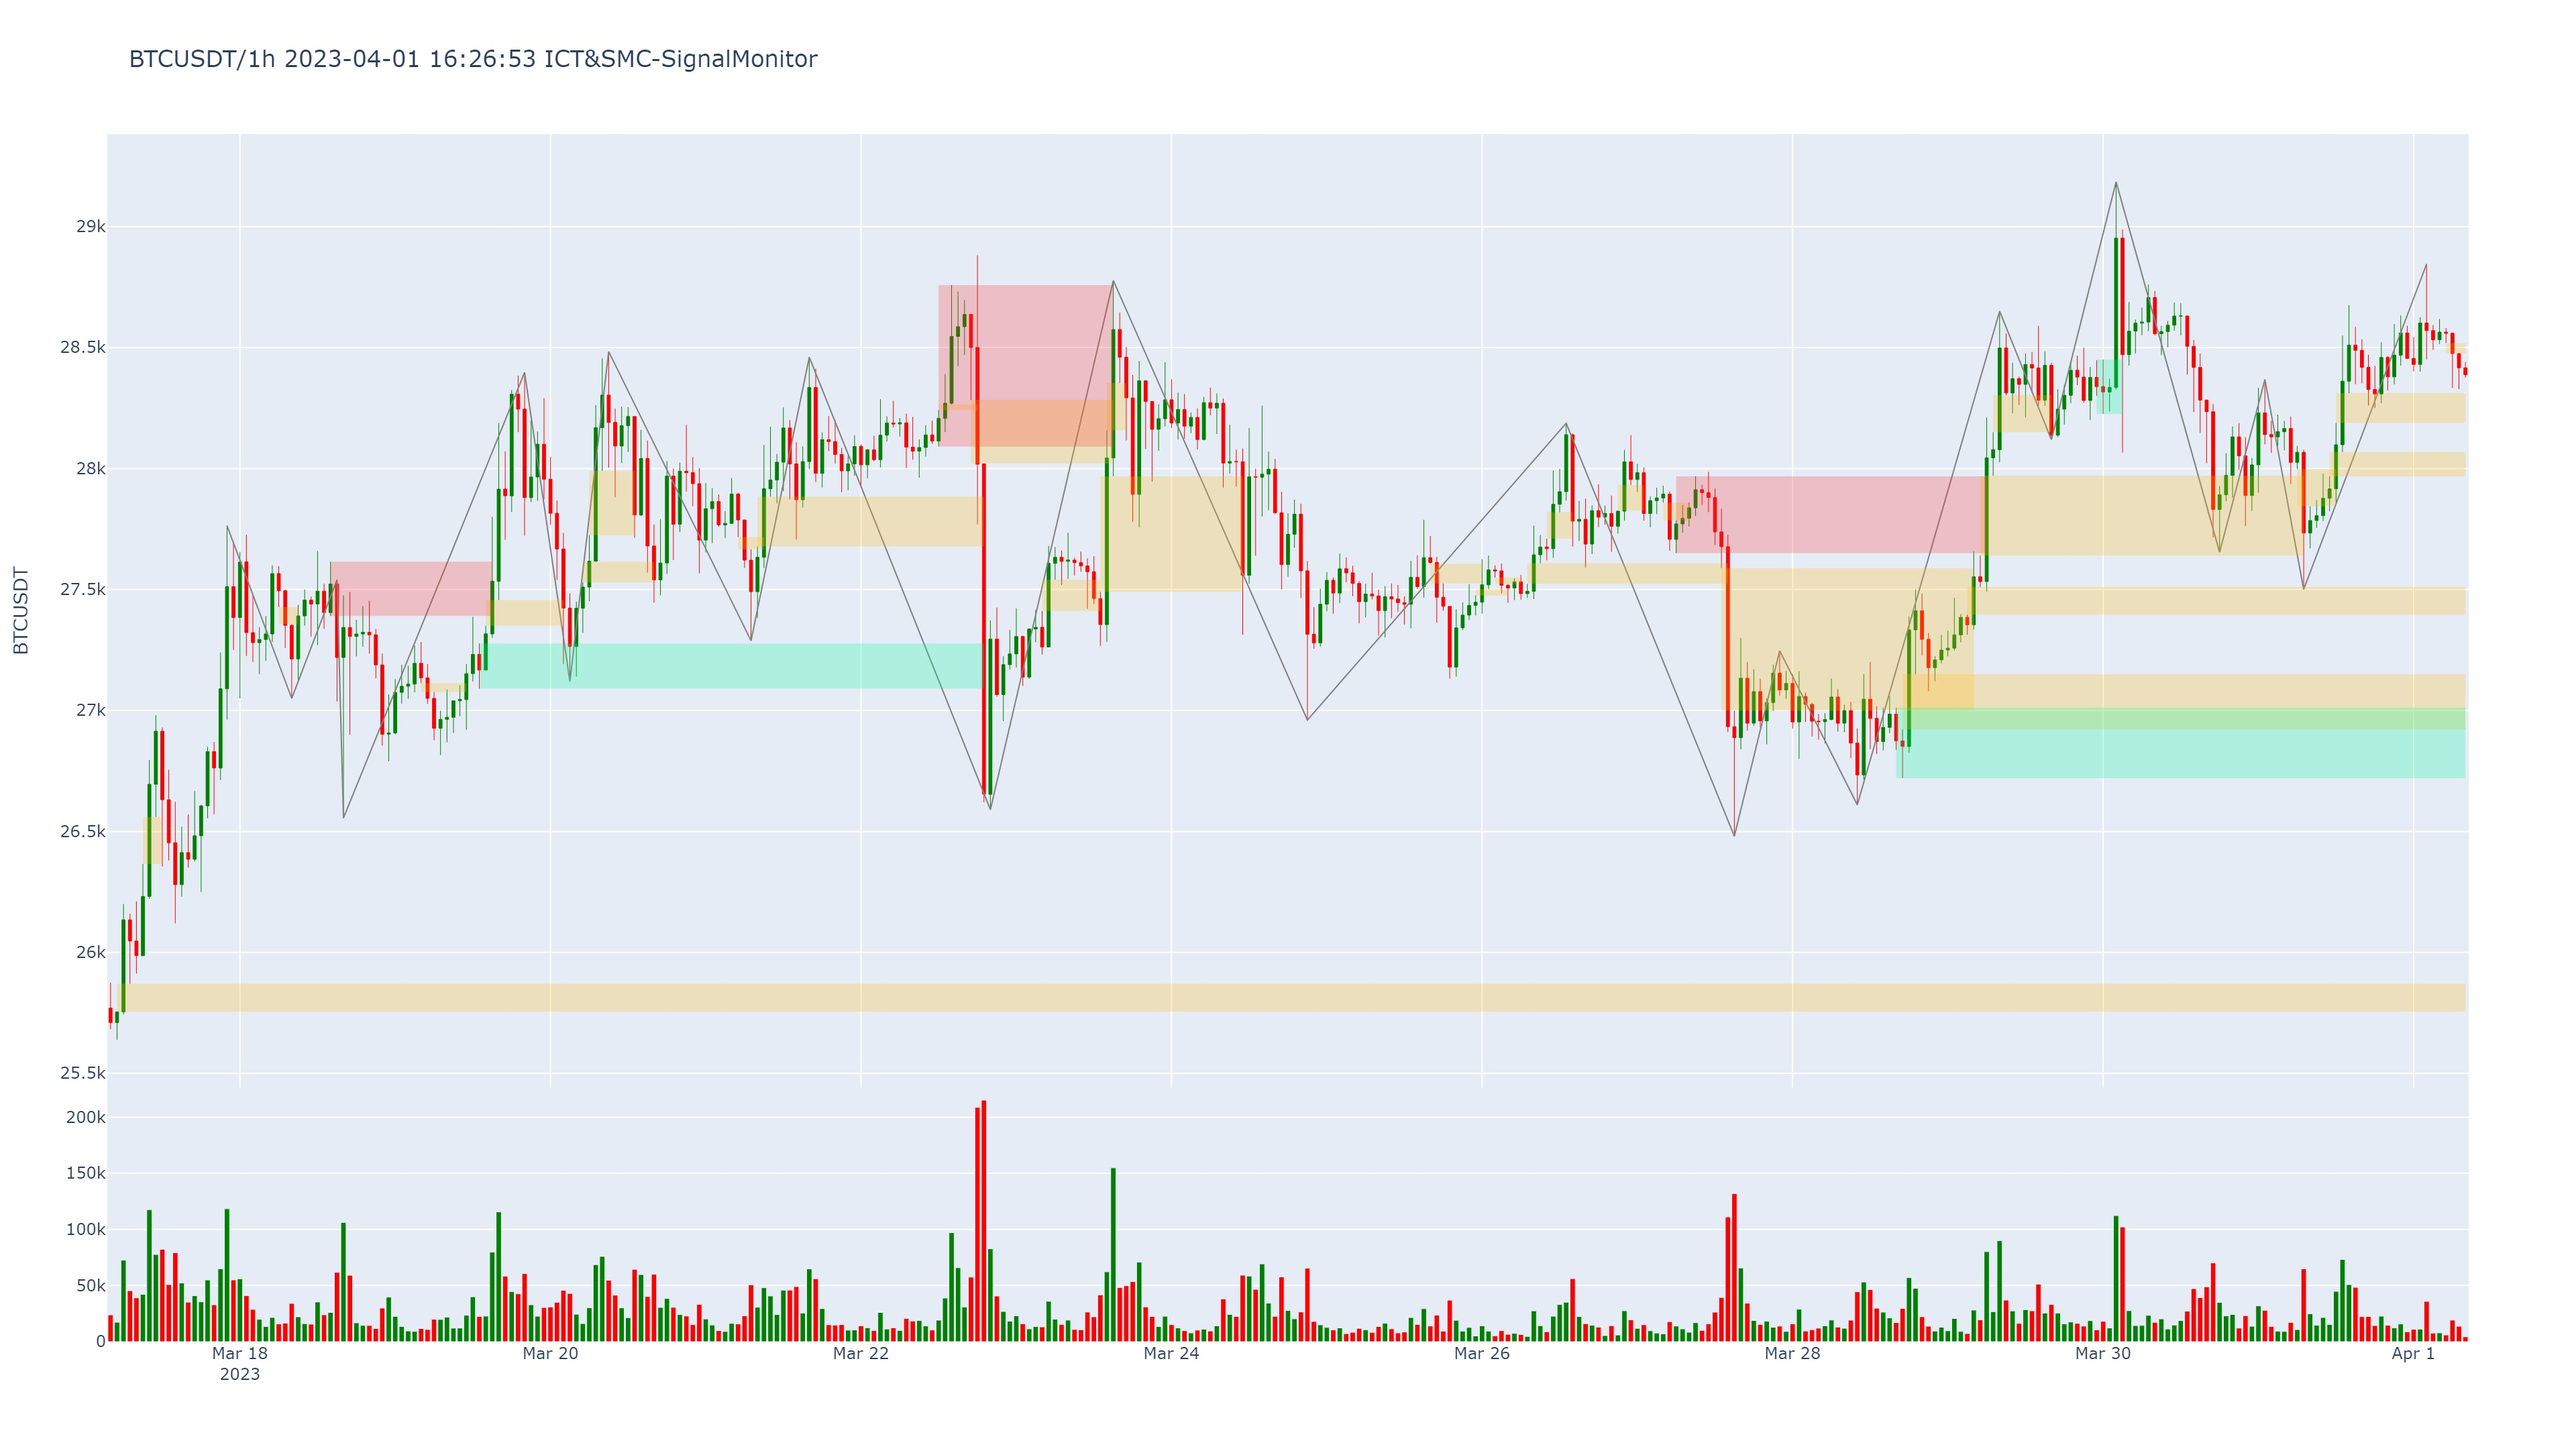
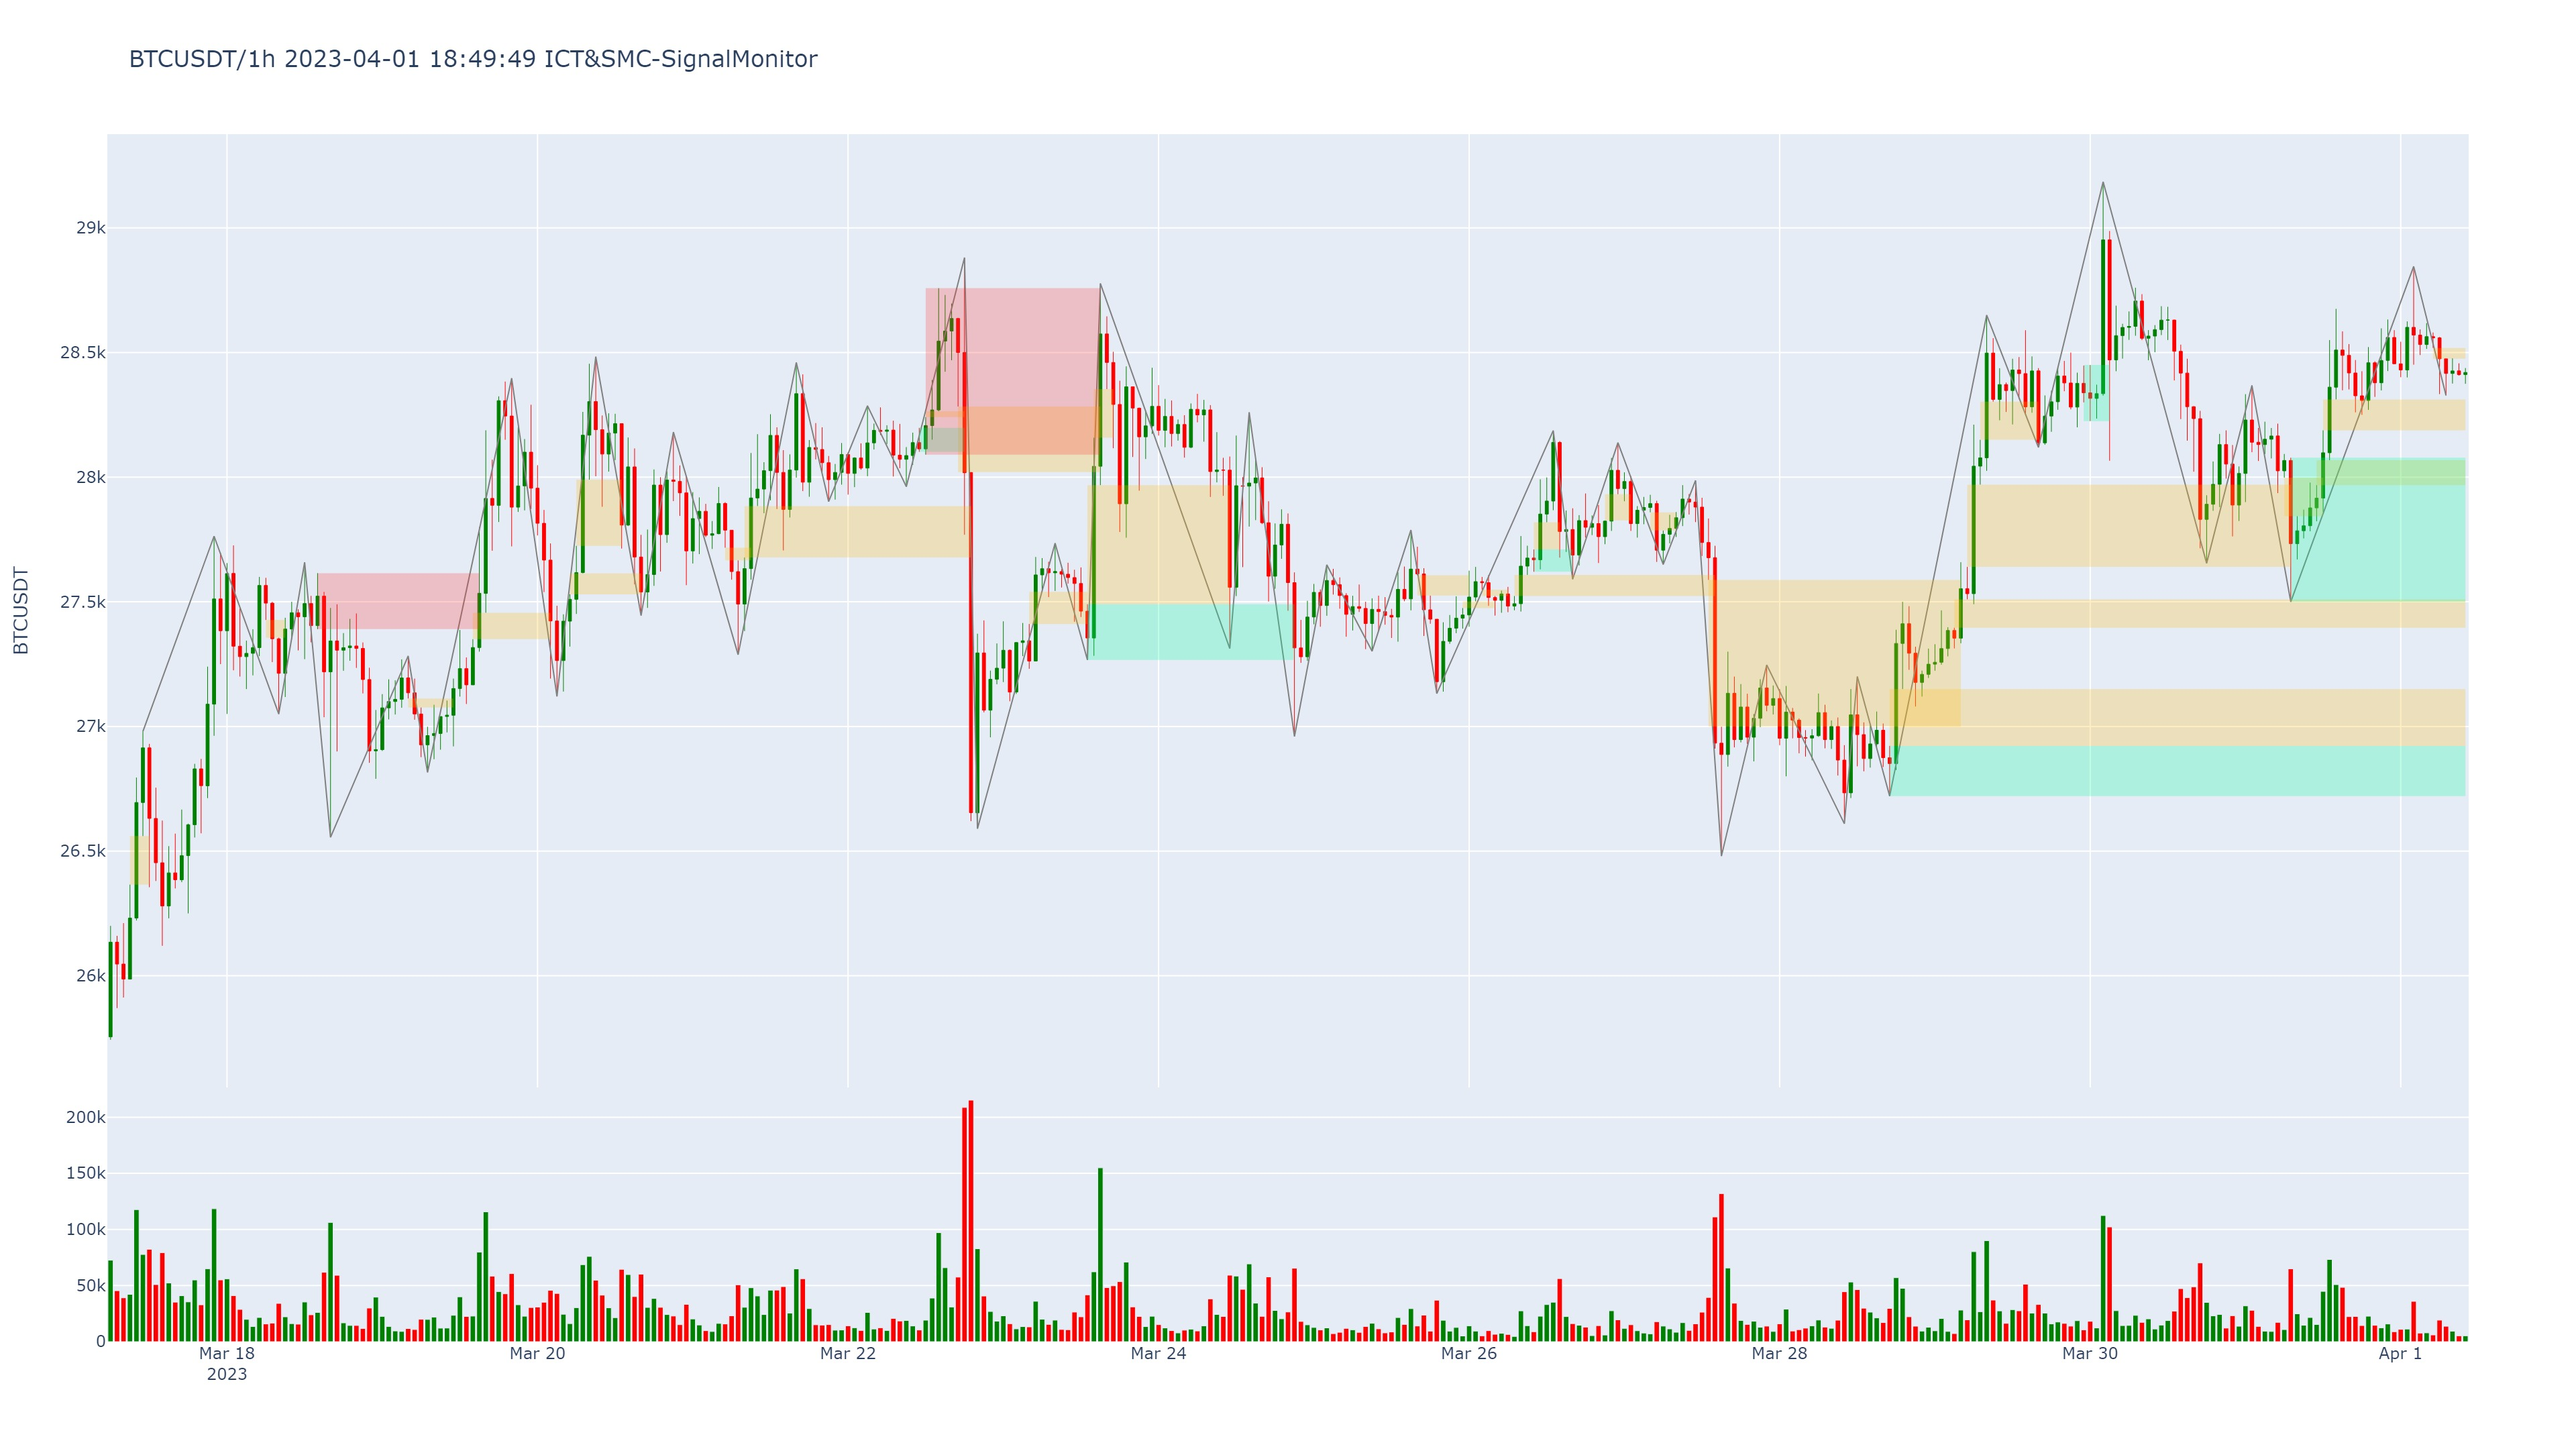
优化指标代码

Changed region(s): [[0.0312, 0.1241, 0.9688, 0.7134], [0.0312, 0.7444, 0.9688, 0.9616]]

diff --git a/example/ICTSignal.py b/example/ICTSignal.py
@@ -458,7 +458,7 @@ class SignalMonitor:
                                         break
                         else:
                             p_s_index = s_index
-                            while p_s_index > 0:
+                            while p_s_index >= 0:
                                 p_s_high = sub_high_nums[p_s_index]
                                 p_s_low = sub_low_nums[p_s_index]
                                 p_s_open = sub_open_nums[p_s_index]
@@ -561,7 +561,7 @@ class SignalMonitor:
                                         break
                         else:
                             p_s_index = s_index
-                            while p_s_index > 0:
+                            while p_s_index >= 0:
                                 p_s_high = sub_high_nums[p_s_index]
                                 p_s_low = sub_low_nums[p_s_index]
                                 p_s_open = sub_open_nums[p_s_index]
@@ -836,14 +836,21 @@ class SignalMonitor:
         latest_low = low_nums[-2]
 
         def is_overlap(a1, a2, b1, b2):
-            return (a1 <= b2) and (a2 >= b1)
+            overlap = (min(a1, a2) <= max(b2, b1)) and (max(a2, a1) >= min(b1, b2))
+            return overlap
         
-        for fvg_info in fvg_infos:
+        for index in range(0, len(fvg_infos)) :
+            fvg_info = fvg_infos[index]
             vaild = fvg_info['vaild']
             high = fvg_info['high']
             low = fvg_info['low']
             type = fvg_info['type']
-            if vaild and is_overlap(latest_high, latest_low, high, low):
+            overlap = is_overlap(latest_high, latest_low, high, low)
+            # if index > 40:
+            #     print(f'{index}--{overlap}--({latest_high}, {latest_low})和({high}, {low})')
+            # else:
+            #     pass
+            if vaild and overlap:
                 if type == 'supply':
                     return {
                         'appear': True,

diff --git a/example/ICTIndicator.py b/example/ICTIndicator.py
@@ -487,7 +487,7 @@ class TVIndicator:
                                         break
                         else:
                             p_s_index = s_index
-                            while p_s_index > 0:
+                            while p_s_index >= 0:
                                 p_s_high = sub_high_nums[p_s_index]
                                 p_s_low = sub_low_nums[p_s_index]
                                 p_s_open = sub_open_nums[p_s_index]
@@ -590,7 +590,7 @@ class TVIndicator:
                                         break
                         else:
                             p_s_index = s_index
-                            while p_s_index > 0:
+                            while p_s_index >= 0:
                                 p_s_high = sub_high_nums[p_s_index]
                                 p_s_low = sub_low_nums[p_s_index]
                                 p_s_open = sub_open_nums[p_s_index]
@@ -865,7 +865,8 @@ class TVIndicator:
         latest_low = low_nums[-2]
 
         def is_overlap(a1, a2, b1, b2):
-            return (a1 <= b2) and (a2 >= b1)
+            overlap = (min(a1, a2) <= max(b2, b1)) and (max(a2, a1) >= min(b1, b2))
+            return overlap
         
         for fvg_info in fvg_infos:
             vaild = fvg_info['vaild']

diff --git a/main.py b/main.py
@@ -27,8 +27,8 @@ def check_indicator(symbol: str, interval: str, klines: list):
     logger.debug(shape_infos)
 
 if __name__ == '__main__':
-    symbol = 'BTCUSDT'
-    interval = '1h'
+    symbol = 'ZRXUSDT'
+    interval = '15m'
     ba_client = UMFutures()
     kline_infos = ba_client.klines(symbol=symbol, interval=interval, limit=365)
     klines = []
